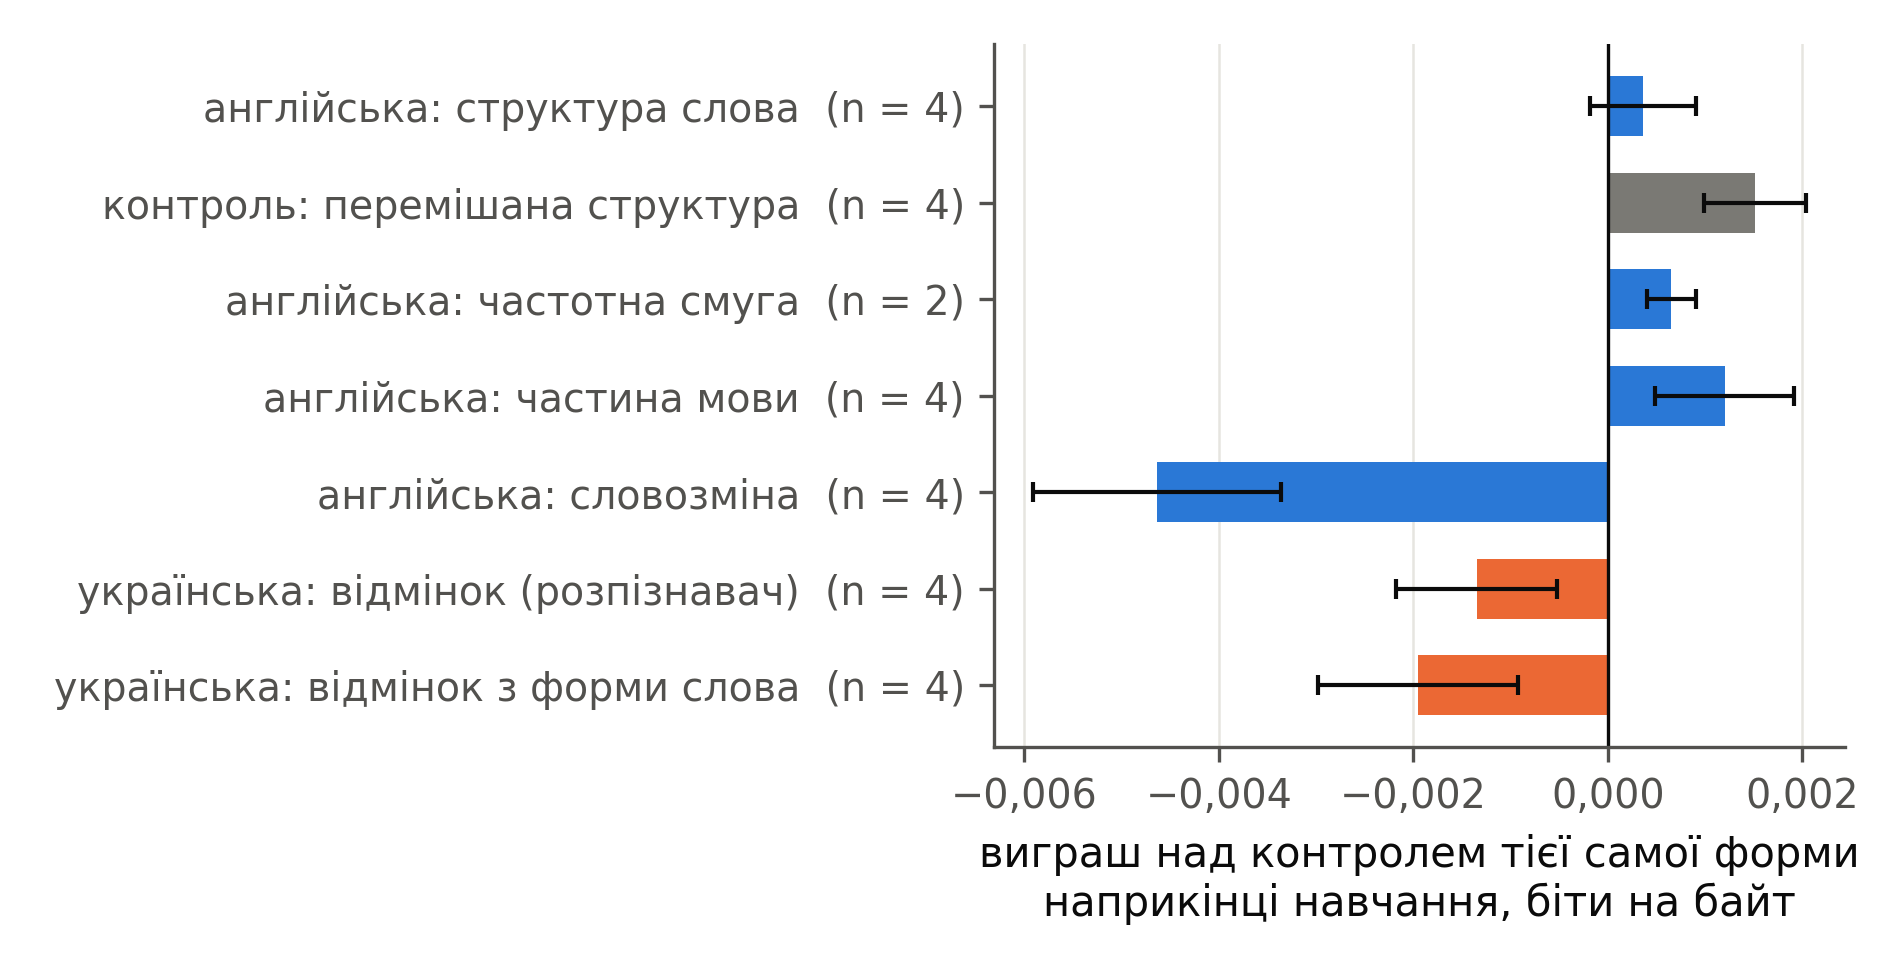
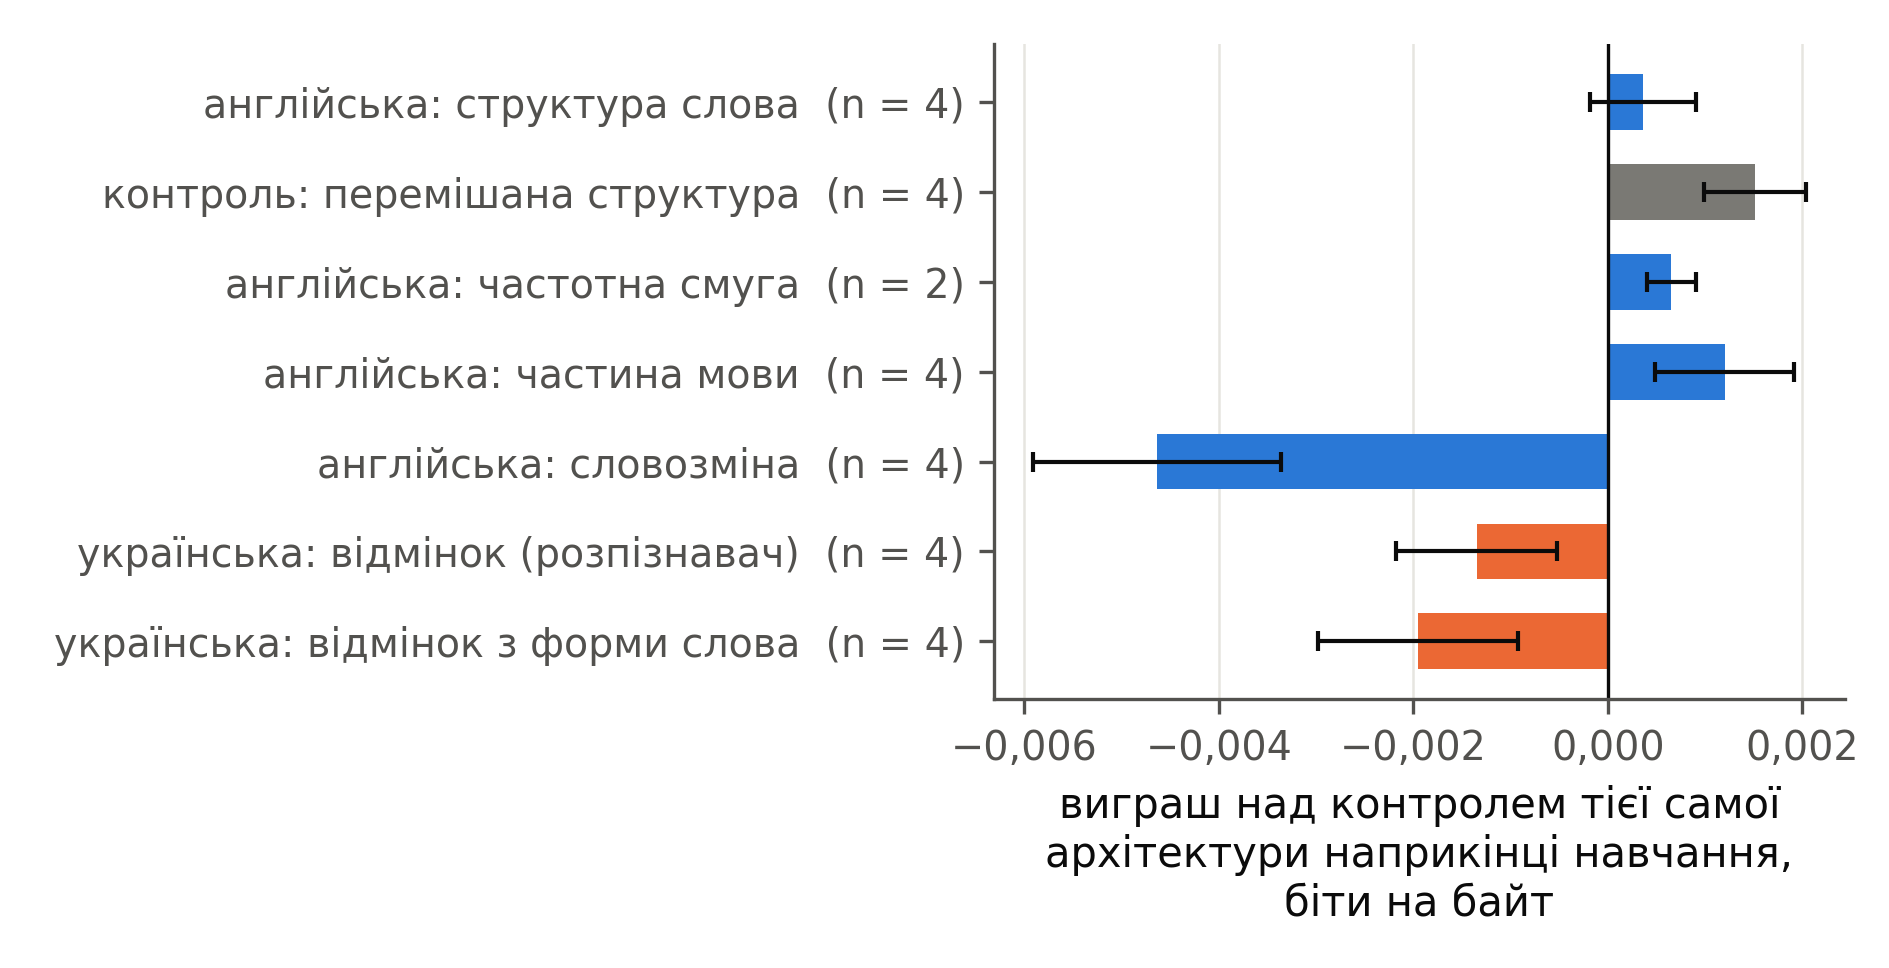
The work's size from the records: 945 trained models, 377.5 GPU-hours, 188 billion tokens
The text's request of 24 October, item 3 (journey §33.138), and a term in the Ukrainian figures.

What changes for the thesis:
- results.md §3, "The work's size" (work_size_20261024T021450, from the new scripts/ops/work_size.py):
  945 trained models in the records, 569 on the thesis machine (RTX 4060 Laptop) and 376 on the
  second (RTX 5090 Laptop, 152 of them repeats of the thesis machine's runs); 377.5 GPU-hours of
  training (284.1 and 93.3); 188.0 billion training tokens (117.6 and 70.3 billion). The 25 September
  records that name no GPU are the thesis machine's. apparatus.md points to it. It grows as the
  weekend's runs come in.
- exports/figures/uk/fig_q2_end.png: the axis now says «контроль тієї самої архітектури», the term
  the thesis uses from 24 October; no number changed. The English figures keep "same-shape null".
- exports/: runs.csv notes item 2's models, now on the thesis machine.

diff --git a/scripts/ops/work_size.py b/scripts/ops/work_size.py
@@ -1,0 +1,110 @@
+#!/usr/bin/env python3
+"""
+work_size.py — the work's size, from the run records: how many models were trained, the hours each
+GPU spent training them, and how many tokens they were trained on (the text's request of 24 October;
+journey §33.138).
+
+Every training run leaves a record: the thesis machine's and the second machine's new runs in
+results/<run id>/result.json, the second machine's repeats of the thesis machine's runs (twins) in
+results/audits/device_twins_*/<run id>.json. A record names its GPU (environment.gpu), its wall time
+and the steps it completed (timing); its tokens are the steps times the batch and the window, 32 × 256
+in every run (tests/test_labels.py checks both in the records). Toy rehearsals and smoke tests run in
+copies of the code and leave no record here; probes and other audits are not training runs.
+
+The 25 records of September that predate the environment block are the thesis machine's: the second
+machine first trained on 16 October, and every record of it names its GPU. A check that could fail:
+every other record must name one of the two GPUs, with a positive wall time and step count, or it is
+reported and the tool stops before writing anything.
+
+    python scripts/ops/work_size.py
+"""
+import os
+import sys
+import glob
+import json
+import argparse
+from collections import defaultdict
+
+ROOT = os.path.dirname(os.path.dirname(os.path.dirname(os.path.abspath(__file__))))
+sys.path.insert(0, ROOT)
+
+BATCH, WINDOW = 32, 256           # every run (tests/test_labels.py, FIXED)
+
+
+THESIS, SECOND = 'thesis machine (RTX 4060 Laptop)', 'second machine (RTX 5090 Laptop)'
+
+
+def machine_of(rec):
+    """(machine, how it is known). A record of September without an environment block names no GPU;
+    the second machine first trained on 16 October and every record of it names its GPU, so such a
+    record is the thesis machine's."""
+    env = rec.get('environment')
+    gpu = (env or {}).get('gpu') or ''
+    if '5090' in gpu:
+        return SECOND, 'named'
+    if '4060' in gpu:
+        return THESIS, 'named'
+    if not env:
+        return THESIS, 'no environment recorded (September)'
+    return f'unknown GPU ({gpu or "not recorded"})', 'named'
+
+
+def main():
+    ap = argparse.ArgumentParser(description=__doc__, formatter_class=argparse.RawDescriptionHelpFormatter)
+    ap.add_argument('--results', default=os.path.join(ROOT, 'results'))
+    a = ap.parse_args()
+    paths = sorted(glob.glob(os.path.join(a.results, '*', 'result.json')))
+    twins = sorted(glob.glob(os.path.join(a.results, 'audits', 'device_twins_*', '*.json')))
+    by = defaultdict(lambda: {'runs': 0, 'seconds': 0.0, 'steps': 0})
+    bad, seen = [], set()
+    for kind, group in (('run', paths), ('twin', twins)):
+        for p in group:
+            rec = json.load(open(p))
+            rid = rec.get('run_id') or os.path.basename(os.path.dirname(p))
+            t = rec.get('timing') or {}
+            sec, steps = t.get('wall_seconds'), t.get('steps_completed')
+            m, how = machine_of(rec)
+            if m.startswith('unknown'):
+                bad.append(f'{kind} {rid}: {m}')
+                continue
+            if not sec or sec <= 0 or not steps or steps <= 0:
+                bad.append(f'{kind} {rid}: wall {sec}, steps {steps}')
+                continue
+            key = (kind, rid, m)
+            if key in seen:
+                continue
+            seen.add(key)
+            b = by[(m, kind if how == 'named' else 'run, ' + how)]
+            b['runs'] += 1
+            b['seconds'] += sec
+            b['steps'] += steps
+    if bad:
+        raise SystemExit('records without a wall time or steps — nothing written:\n  ' + '\n  '.join(bad))
+    rows, total = [], {'runs': 0, 'hours': 0.0, 'tokens': 0}
+    for (m, kind), b in sorted(by.items()):
+        tokens = b['steps'] * BATCH * WINDOW
+        rows.append({'machine': m, 'records': {'twin': 'twins', 'run': 'runs'}.get(kind, kind), 'models': b['runs'],
+                     'gpu_hours': round(b['seconds'] / 3600, 1), 'steps': b['steps'], 'tokens': tokens})
+        total['runs'] += b['runs']; total['hours'] += b['seconds'] / 3600; total['tokens'] += tokens
+    per_machine = defaultdict(lambda: {'models': 0, 'gpu_hours': 0.0, 'tokens': 0})
+    for r in rows:
+        pm = per_machine[r['machine']]
+        pm['models'] += r['models']; pm['gpu_hours'] += r['gpu_hours']; pm['tokens'] += r['tokens']
+    print(f'  {"machine":34} {"records":42} {"models":>7} {"GPU-hours":>10} {"tokens":>18}')
+    for r in rows:
+        print(f'  {r["machine"]:34} {r["records"]:42} {r["models"]:7d} {r["gpu_hours"]:10.1f} {r["tokens"]:18,d}')
+    for m, pm in sorted(per_machine.items()):
+        print(f'  {m:34} {"all":42} {pm["models"]:7d} {pm["gpu_hours"]:10.1f} {pm["tokens"]:18,d}')
+    print(f'  {"in all":34} {"":42} {total["runs"]:7d} {total["hours"]:10.1f} {total["tokens"]:18,d}')
+    from morphlm.record import AuditRecord
+    rec = AuditRecord('work_size', a, out_dir=os.path.join(a.results, 'audits'))
+    rec.add('batch_window', [BATCH, WINDOW])
+    rec.add('rows', rows)
+    rec.add('per_machine', {m: {k: (round(v, 1) if k == 'gpu_hours' else v) for k, v in pm.items()}
+                            for m, pm in per_machine.items()})
+    rec.add('total', {'models': total['runs'], 'gpu_hours': round(total['hours'], 1), 'tokens': total['tokens']})
+    rec.write()
+
+
+if __name__ == '__main__':
+    main()

diff --git a/scripts/analysis/thesis_figures.py b/scripts/analysis/thesis_figures.py
@@ -83,7 +83,7 @@ LONG_DASH = (0, (7, 2.5))      # width 1024: a fourth line style after '-', '-.'
 TXT = {
     'uk': {
         'gain': 'виграш над контролем,\nбіти на байт',
-        'gain_end': 'виграш над контролем тієї самої форми\nнаприкінці навчання, біти на байт',
+        'gain_end': 'виграш над контролем тієї самої\nархітектури наприкінці навчання,\nбіти на байт',
         'step': 'крок навчання, тис.',
         'null_bpb': 'BPB контролю на валідації\n(→ модель навчилася більше)',
         'ref_bpb': 'BPB контролю BPE 17k на валідації\n(→ модель навчилася більше)',

diff --git a/docs/record/journey/15_the_list_of_19_october.md b/docs/record/journey/15_the_list_of_19_october.md
@@ -1306,3 +1306,29 @@ and Y on the repeated text, both with the 1,000-step warm-up:
 - X within 0.002 of Y or above: *without repeating the text the gain at width 1024 is X*, and the
   caveat about repetition goes;
 - X more than 0.002 below Y: *without repeating the text the gain at width 1024 is smaller: X*.
+
+### 33.138 Item 3: the work's size, and a term in the Ukrainian figures
+
+The text's item 3 (§33.136) asks for the work's size, from the records, for the Introduction.
+`scripts/ops/work_size.py` reads every run record (`work_size_20261024T021450`):
+
+| machine | trained models | GPU-hours | training tokens |
+|---|---|---|---|
+| thesis machine, RTX 4060 Laptop | 569 | 284.1 | 117.6 billion |
+| second machine, RTX 5090 Laptop | 376 | 93.3 | 70.3 billion |
+| **in all** | **945** | **377.5** | **188.0 billion** |
+
+- 25 of the thesis machine's models come from September records that name no GPU, an older record
+  format without an environment block. The second machine first trained on 16 October and every
+  record of it names its GPU, so they are the thesis machine's.
+- 152 of the second machine's models repeat the thesis machine's runs (twins).
+- Tokens are the steps completed times 32 windows of 256 tokens. Toy rehearsals and smoke tests run
+  in copies of the code, leave no record, and are not counted.
+- A first count a minute earlier (`work_size_20261024T021411`) listed the September records apart, as
+  an unnamed GPU; this one gives them to their machine.
+
+The home is the results record, §3. The weekend's runs add to it, and the tool counts again.
+
+**A term.** The thesis now calls the same-shape null «контроль тієї самої архітектури», not
+«…тієї самої форми», which readers took for the word form. The Ukrainian Q2 figure (`fig_q2_end`) says
+so, its axis label now on three lines. The English figures keep "same-shape null".

diff --git a/scripts/README.md b/scripts/README.md
@@ -105,6 +105,7 @@ Most read the run records only; `probe.py`, `probe_words.py`, `loss_by_kind.py` 
 | `run_batch.py` | Run a block of experiments unattended, safely. | historical |
 | `run_ids.py` | The run id a command line would produce, without running it; `--done` tells a chain whether a cell's seed is already finished, `--bpb` what it scored. | active |
 | `run_times.py` | How long runs of a kind took, from their records — the source of every estimate in a queue review. | active |
+| `work_size.py` | The work's size from the run records: trained models, GPU-hours and training tokens, by machine (twins and September records without a GPU name counted apart, then folded in); writes a `work_size` audit record | active |
 | `slim_codes.py` | One fact of a stream's codes in a file of its own, for a machine that holds only what its runs read. | active |
 | `smoke_model.py` | Build each cell's REAL model and push one batch through it. | active |
 | `tagger_record.py` | Which spaCy tagger, at which version, tagged each corpus's caches? From the installed packages and the earliest evidence of each corpus's caches (G-74). | active |

diff --git a/docs/record/results.md b/docs/record/results.md
@@ -245,7 +245,9 @@ sweep (clamp bug, quarantined).
 
 ## 3. Complete run inventory
 
-28 training runs in 11 batches. *(Complete to Batch 9; every run: `exports/runs.csv`.)*
+**The work's size** (24 October; `work_size_20261024T021450`, from `scripts/ops/work_size.py`, journey §33.138): **945 trained models** in the records — 569 on the thesis machine (RTX 4060 Laptop; 25 of them from September records that name no GPU) and 376 on the second (RTX 5090 Laptop; 152 of them repeats of the thesis machine's runs); **377.5 GPU-hours** of training (284.1 and 93.3); **188.0 billion training tokens** (117.6 and 70.3 billion: the steps times 32 windows of 256 tokens). Toy rehearsals and smoke tests leave no record and are not counted; the tool counts again as runs are added.
+
+*The early inventory, kept as it was:* 28 training runs in 11 batches. *(Complete to Batch 9; every run: `exports/runs.csv`.)*
 
 **Unit warning.** Perplexity is per-token and comparable ONLY within a pipeline.
 A BPE cell at 67.36 and a morpheme cell at 6.25 are not 10× apart — they count

diff --git a/docs/record/journey/README.md b/docs/record/journey/README.md
@@ -454,6 +454,7 @@ Where each question of the thesis was worked on, across the parts. A section may
 - [33.135 Item 2: at full training English part of speech's causal tagger keeps nothing reliable over the word form](15_the_list_of_19_october.md#33135-item-2-at-full-training-english-part-of-speechs-causal-tagger-keeps-nothing-reliable-over-the-word-form)
 - [33.136 The text's request of 24 October, and the empty slot at width 1024 prepared](15_the_list_of_19_october.md#33136-the-texts-request-of-24-october-and-the-empty-slot-at-width-1024-prepared)
 - [33.137 Item 1 prepared: width 1024 without repeating the text](15_the_list_of_19_october.md#33137-item-1-prepared-width-1024-without-repeating-the-text)
+- [33.138 Item 3: the work's size, and a term in the Ukrainian figures](15_the_list_of_19_october.md#33138-item-3-the-works-size-and-a-term-in-the-ukrainian-figures)
 
 ### Appendices
 

diff --git a/exports/audits.md b/exports/audits.md
@@ -394,6 +394,8 @@
 | `scripts/data/prepare_ubertext_fiction.py` | 20261011T074342+0000 | - | bytes_written, characters, document_characters, documents, keys_repeated, paragraphs, titled, wrapped |
 | `scripts/data/prepare_ubertext_fiction.py` | 20261016T000257+0000 | - | bytes_written, characters, document_characters, documents, keys_repeated, paragraphs, titled, wrapped |
 | `ukwiki_stats` | 2026-09-28T22:39:28+00:00 | holdout=2000 target_chars=539000000.0 | splits, suggested_fraction |
+| `work_size` | 2026-10-24T02:14:11+00:00 | results=/home/neko/PycharmProjects/Morph/results | batch_window, per_machine, rows, total |
+| `work_size` | 2026-10-24T02:14:50+00:00 | results=/home/neko/PycharmProjects/Morph/results | batch_window, per_machine, rows, total |
 
 ## Caveats recorded with the numbers
 

diff --git a/docs/reference/apparatus.md b/docs/reference/apparatus.md
@@ -23,7 +23,8 @@
   on both; a run repeated on the other machine differs like a dropout draw, so every comparison is
   made within one machine (journey §33.101, §33.106). The RTX 5090 is about 2.8 times faster: a
   width-128 run of 10k steps takes 245 seconds alone, and three at once 787 seconds each, so runs
-  go one at a time (journey §33.101)
+  go one at a time (journey §33.101). The work's size by machine — models, GPU-hours, training tokens — is in
+  [the results record, §3](../record/results.md#3-complete-run-inventory)
 
 ### 1.2 Data assets
 
